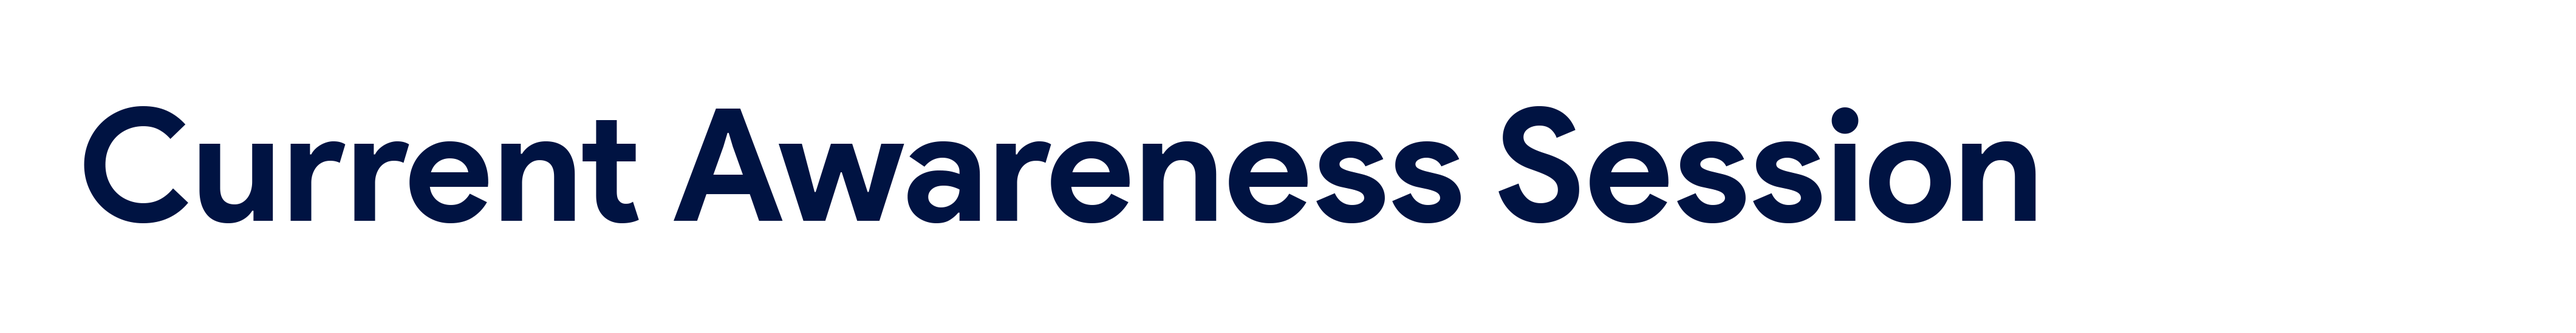
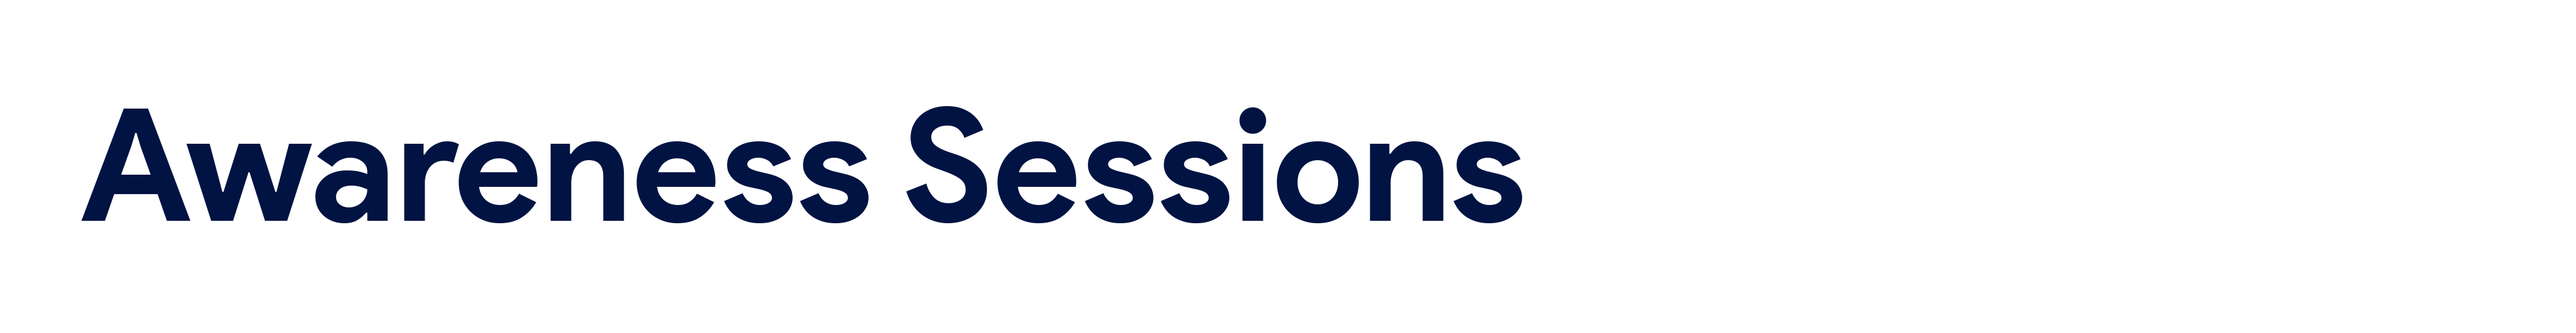
Add current & next awareness

Changed region(s): [[0.0311, 0.3097, 0.8092, 0.6812], [0.6847, 0.3406, 0.747, 0.4026]]

diff --git a/css/general.css b/css/general.css
@@ -77,15 +77,27 @@
     font-weight: lighter; }
 
 .aware-row {
+  position: relative;
   background: #eee;
-  padding: 30px 10px; }
+  padding: 20px 10px;
+  padding-top: 50px; }
   .aware-row #aware-img {
     margin-left: 20px;
-    height: 150px;
+    height: 120px;
     border-radius: 100%; }
+  .aware-row .aware-tag {
+    position: absolute;
+    background: #2b82c9;
+    color: #fff;
+    font-size: 20px;
+    width: 12%;
+    top: 0;
+    left: 0;
+    padding: 8px; }
   .aware-row .aware-text {
-    font-size: 40px;
-    line-height: 150px; }
+    font-size: 35px; }
+    .aware-row .aware-text.time {
+      font-weight: bold; }
 
 #form-link {
   height: 100px;

diff --git a/css/general.scss b/css/general.scss
@@ -121,17 +121,31 @@
 
 //========== aware
 .aware-row {
+  position: relative;
   background: #eee;
-  padding: 30px 10px;
+  padding: 20px 10px;
+  padding-top: 50px;
   #aware-img {
     margin-left: 20px;
-    height: 150px;
+    height: 120px;
     border-radius: 100%;
   }
-
+  .aware-tag {
+    position: absolute;
+    background: #2b82c9;
+    color: #fff;
+    font-size: 20px;
+    width: 12%;
+    top: 0;
+    left: 0;
+    padding: 8px;
+  }
   .aware-text {
-    font-size: 40px;
-    line-height: 150px;
+    font-size: 35px;
+    //line-height: 150px;
+    &.time {
+      font-weight: bold;
+    }
   }
 }
 

diff --git a/index.php b/index.php
@@ -59,10 +59,10 @@
     <?php
     $session = json_decode(file_get_contents("sessions.txt"));
 
-    if($session->id != -1){
+    if ($session->id != -1) {
         $currentSession = $session->sessions[$session->id];
     }
-    if($session->nextId != -1){
+    if ($session->nextId != -1) {
         $nextSession = $session->sessions[$session->nextId];
     }
 
@@ -70,43 +70,50 @@
     ?>
 
     <?php
-        if($session->id != -1){
-
-        ?>
-            <div class="row aware-row">
-                <div class="col-xs-3">
-                    <!--            <img src="--><?php //echo $currentSession->image ?><!--" class="img img-responsive"/>-->
-                    <img id="aware-img" src="img/aware_fake.jpg" class="img img-responsive"/>
-                </div>
-                <div class="col-xs-9 aware-text">
-                    <?php echo $currentSession->name; ?> -
-                    <?php echo $currentSession->time; ?>
-                </div>
-
-            </div>
-    <?php
-        }
-    ?>
-
-    <?php
-    if($session->id != -1){
+    if ($session->id != -1) {
 
         ?>
         <div class="row aware-row">
+            <div class="aware-tag">Current</div>
             <div class="col-xs-3">
-                <!--            <img src="--><?php //echo $currentSession->image ?><!--" class="img img-responsive"/>-->
+                <!--            <img src="--><?php //echo $currentSession->image
+                ?><!--" class="img img-responsive"/>-->
                 <img id="aware-img" src="img/aware_fake.jpg" class="img img-responsive"/>
             </div>
-            <div class="col-xs-9 aware-text">
-                <?php echo $nextSession->name; ?> -
-                <?php echo $nextSession->time; ?>
+            <div class="col-xs-6 aware-text">
+                <?php echo $currentSession->name; ?>
+            </div>
+            <div class="col-xs-3 aware-text time">
+                - <?php echo $currentSession->time; ?>
             </div>
 
         </div>
         <?php
     }
     ?>
+    <div class="sp-sm"></div>
+    <?php
+    if ($session->id != -1) {
 
+        ?>
+        <div class="row aware-row">
+            <div class="aware-tag">Next</div>
+            <div class="col-xs-3">
+                <!--            <img src="--><?php //echo $currentSession->image
+                ?><!--" class="img img-responsive"/>-->
+                <img id="aware-img" src="img/aware_fake.jpg" class="img img-responsive"/>
+            </div>
+            <div class="col-xs-6 aware-text">
+                <?php echo $nextSession->name; ?>
+            </div>
+            <div class="col-xs-3 aware-text time">
+                - <?php echo $nextSession->time; ?>
+            </div>
+
+        </div>
+        <?php
+    }
+    ?>
 
 
     <!--<hr>-->

diff --git a/form.php b/form.php
@@ -92,7 +92,7 @@
                 <div class="col-md-3">
                     <div class="form-group">
                         <label for="name">Name:</label>
-                        <input type="text" value="Future of computer science (in 15, 20 years) " readonly
+                        <input type="text" value="Future of computer science <br> (in 15, 20 years) " readonly
                                class="form-control" id="name" name="name[]">
                     </div>
                 </div>
